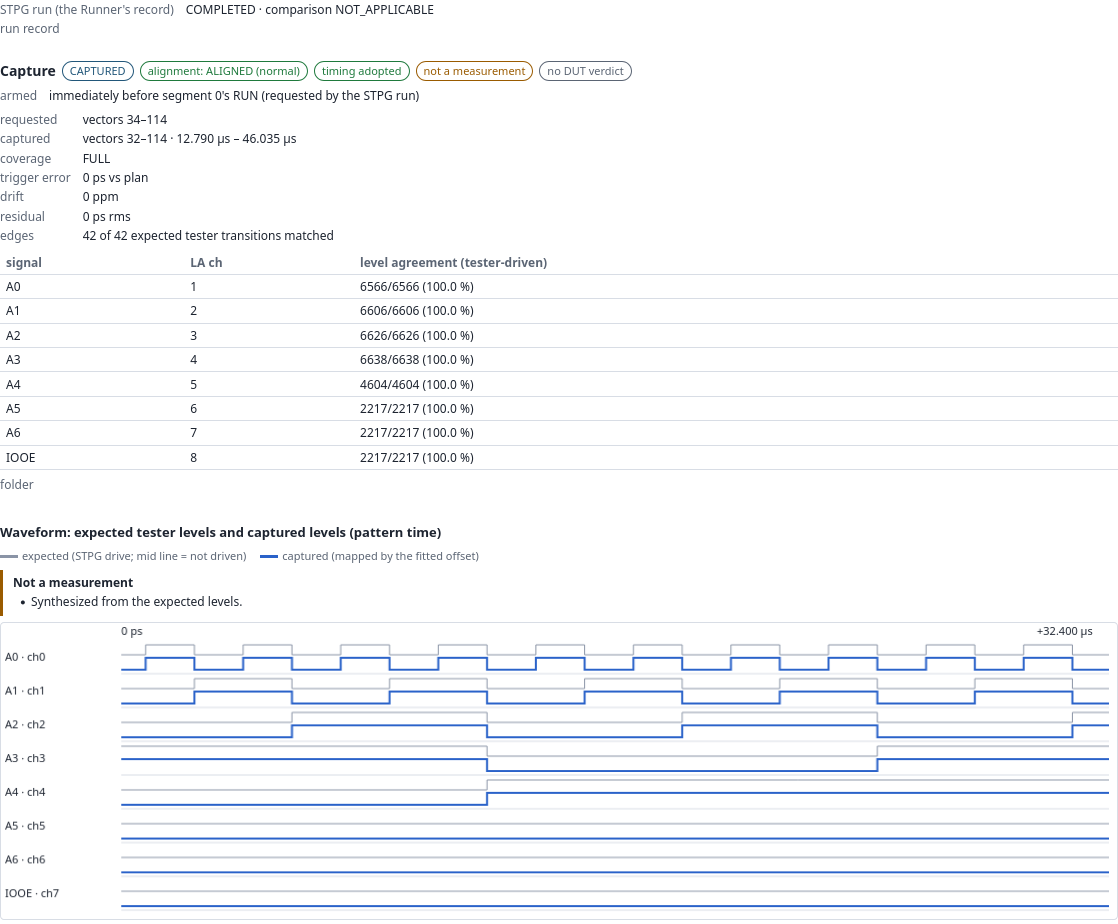
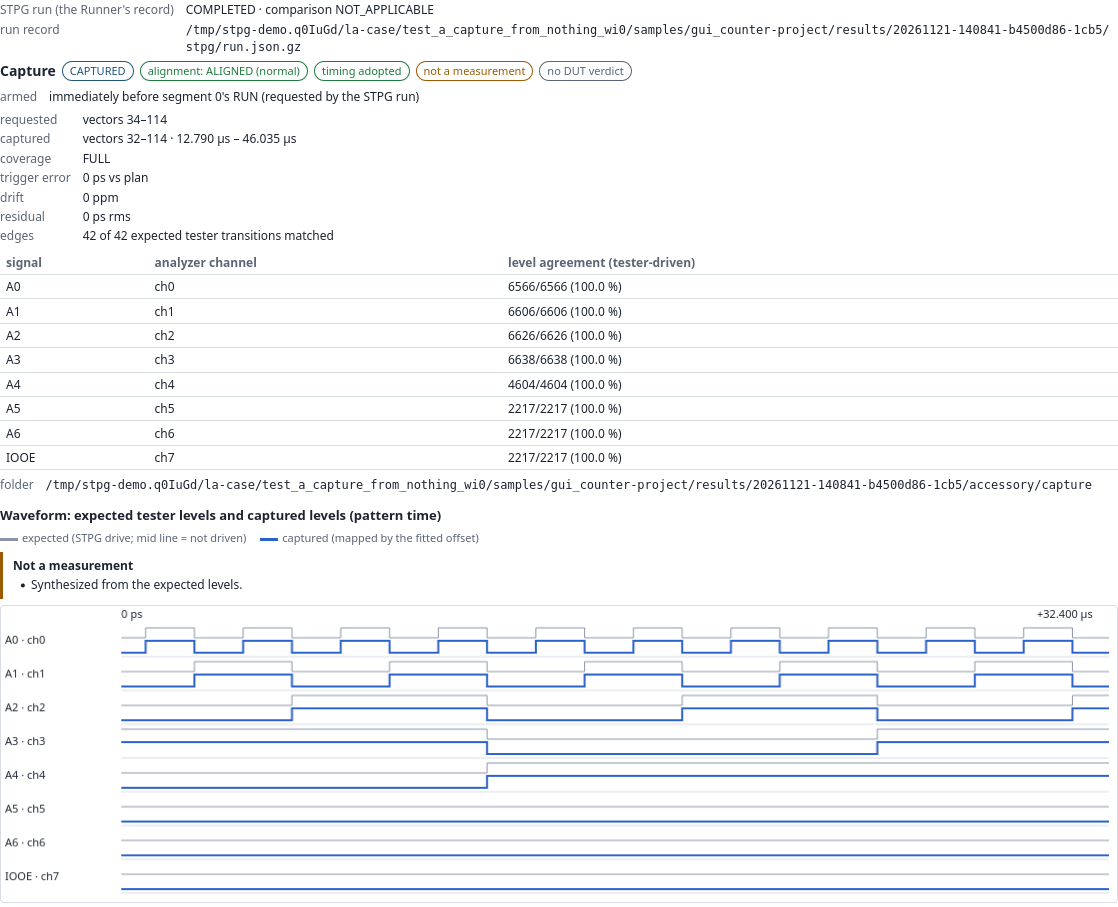
Label analyzer triggers from ch0 without changing saved plans

diff --git a/stpg_capture/ui/static/la.js b/stpg_capture/ui/static/la.js
@@ -353,6 +353,23 @@ $("planSave").addEventListener("click", (e) => {
   if (path) busyWhile(e.target, async () => { const r = await api("plan/save", { plan_id: S.plan.plan_id, path }); setStatus(`saved ${r.path}`); });
 });
 
+// The saved condition string is historical. Keep it intact; label the
+// structured, zero-based trigger like the wiring and waveform in this UI.
+function triggerConditionText(trigger, channels) {
+  const { type, base_channel: base, count, value } = trigger || {};
+  const limit = type === "pattern" ? 16 : type === "level" && count === 1 ? 25 : 0;
+  if (![base, count, value].every(Number.isInteger) || base < 0 || count < 1 ||
+      base + count > limit || value < 0 || value >= 2 ** count) return "the trigger condition";
+  const labels = new Map((Array.isArray(channels) ? channels : [])
+    .filter((row) => row && Number.isInteger(row.channel) && typeof row.signal === "string")
+    .map((row) => [row.channel, row.signal]));
+  return Array.from({ length: count }, (_, i) => {
+    const channel = base + i;
+    const signal = labels.get(channel);
+    return `ch${channel}${signal ? `(${signal})` : ""}=${(value >> i) & 1}`;
+  }).join(", ");
+}
+
 function renderPlan() {
   const body = $("planBody");
   const planned = !!(S.plan && S.plan.plan.status === "PLANNED");
@@ -366,7 +383,7 @@ function renderPlan() {
     el("div", { class: "badges" }, badge(p.status, planned ? "ok" : "bad"), t.type ? badge(`${t.type} trigger`, "info") : null,
       t.strategy ? badge(`strategy ${t.strategy}`, "muted") : null, badge(`segment ${p.bundle.segment}`, "muted")),
     p.reasons && p.reasons.length ? notice("bad", "Not plannable", p.reasons) : null,
-    planned ? kvList([["trigger", t.condition], ["target", `vector ${p.target.vector} (local ${p.target.local_vector} of segment ${p.bundle.segment})`],
+    planned ? kvList([["trigger", triggerConditionText(t, p.channels)], ["target", `vector ${p.target.vector} (local ${p.target.local_vector} of segment ${p.bundle.segment})`],
       ["window", `vectors ${p.window.first_vector}–${p.window.last_vector}`],
       ["sampling", `${(p.sample_rate_hz / 1e6).toFixed(3)} MHz · ${p.samples.pre} before + ${p.samples.post} after = ${p.samples.total} samples`]]) : null,
     planned ? table(["signal", "analyzer channel"], p.channels.map((c) => [c.signal, `ch${c.channel}`])) : null,
@@ -381,14 +398,16 @@ function renderPlan() {
 $("runWrite").addEventListener("click", (e) => busyWhile(e.target, async () => {
   const mode = $("runMode").value;
   if (!mode) throw new Error("choose the mode explicitly: device or simulated");
-  const r = await api("config", { plan_id: S.plan.plan_id, mode, device_binding: $("runDevice").value.trim() || null,
+  const selected = S.plan;
+  const r = await api("config", { plan_id: selected.plan_id, mode, device_binding: $("runDevice").value.trim() || null,
     directory: $("runFolder").value.trim() || null });
   setChildren($("runBody"), 
     el("div", { class: "badges" }, badge("written", "ok"), badge(r.mode, r.mode === "simulated" ? "warn" : "info"),
       r.checked_by_core_sdk ? badge("core identity check passed", "ok") : badge("core identity check not run", "muted")),
     kvList([["accessory config", copyable(r.config)], ["segment", r.segment],
       ["open limit", `${r.open_timeout_s ?? r.timeout_s} s`], ["arm/complete limit", `${r.timeout_s} s`],
-      ["stdin EOF grace", `${r.close_timeout_s ?? 1} s`], ["trigger", r.trigger]]),
+      ["stdin EOF grace", `${r.close_timeout_s ?? 1} s`],
+      ["trigger", triggerConditionText(selected.plan.trigger, selected.plan.channels)]]),
     notice("info", "Next, in the STPG Runner", [
       "External accessory → Accessory config: this external.json → Check → tick “use with the next run” → Run….",
       "The run's results folder then holds stpg/ (the STPG record), accessory/session.json (the Runner's record of this process) and accessory/capture/ (this tool's capture). Open the run folder in card 7."]),
@@ -485,9 +504,9 @@ function captureResultView(view) {
   const session = (r.analyzer && r.analyzer.session) || {};
   if (r.outcome === "NO_DATA" && session.armed && session.capture_bytes_received === 0) {
     // NO_DATA follows a sent target RUN; with not one byte back, the analyzer never fired (not a transfer stall)
-    const trig = view.plan_summary && view.plan_summary.trigger;
+    const { trigger: trig, channels } = view.plan_summary || {};
     box.append(notice("warn", "Trigger never seen", [
-      `The analyzer was armed before the target RUN and the RUN was sent, but it did not see ${trig ? trig.condition : "the trigger condition"} and sent no samples.`,
+      `The analyzer was armed before the target RUN and the RUN was sent, but it did not see ${triggerConditionText(trig, channels)} and sent no samples.`,
       ...(trig && trig.type === "pattern" ? ['This is a pattern trigger: the analyzer firmware signals it from its GPIO0 to its GPIO1, so it fires only when GPIO0 and GPIO1 of the analyzer Pico are connected. A plan made with Strategy "level trigger" does not use them, so it tells this cause apart from the wiring below.'] : []),
       "Also check the wires from the STPG GPIOs to the analyzer channels listed in the plan, the common ground, and that the STPG section shows the run completed."]));
   }

diff --git a/tests/test_la_page_render.py b/tests/test_la_page_render.py
@@ -10,8 +10,10 @@ import stpg_capture.ui as ui_package
 
 pytestmark = pytest.mark.stpg_host_only
 
-PATTERN ={"type": "pattern", "condition": "ch1(A0)=0, ch7(A6)=1"}
-LEVEL = {"type": "level", "condition": "ch7(A6)=1"}
+PATTERN = {"type": "pattern", "base_channel": 0, "count": 2, "value": 2,
+           "condition": "ch1(A0)=0, ch2(A1)=1"}
+LEVEL = {"type": "level", "base_channel": 6, "count": 1, "value": 1, "condition": "ch7(A6)=1"}
+CHANNELS = [{"channel": 0, "signal": "A0"}, {"channel": 1, "signal": "A1"}, {"channel": 6, "signal": "A6"}]
 WIRE = "gpio0 and gpio1 of the analyzer pico are connected"
 
 
@@ -22,6 +24,9 @@ def render(view):
     source = (Path(ui_package.__file__).parent / "static" / "la.js").read_text(encoding="utf-8")
     start = source.index("function captureResultView(")
     body = source[start:source.index("async function showCapture(", start)]
+    if "function triggerConditionText(" in source:
+        start = source.index("function triggerConditionText(")
+        body = source[start:source.index("function renderPlan(", start)] + body
     script = """
 const input = JSON.parse(require('fs').readFileSync(0, 'utf8'));
 class Dom {
@@ -46,13 +51,16 @@ def _view(outcome, received, trigger, *, armed=True):
     result = {"outcome": outcome, "alignment_status": "NOT_ATTEMPTED", "mode": "device",
               "timing": {"adopted": False, "reasons": []}, "errors": ["no complete capture within the bounded wait"],
               "analyzer": {"session": {"armed": armed, "capture_bytes_received": received}}}
-    return {"result": result, "directory": "capture", "plan_summary": {"trigger": trigger} if trigger else None}
+    return {"result": result, "directory": "capture",
+            "plan_summary": {"trigger": trigger, "channels": CHANNELS} if trigger else None}
 
 
-@pytest.mark.parametrize("trigger,wire", [(PATTERN, True), (LEVEL, False)])
-def test_no_byte_after_the_target_run_says_the_trigger_was_never_seen(trigger, wire):
+@pytest.mark.parametrize("trigger,wire,shown", [
+    (PATTERN, True, "ch0(A0)=0, ch1(A1)=1"), (LEVEL, False, "ch6(A6)=1")])
+def test_no_byte_after_the_target_run_says_the_trigger_was_never_seen(trigger, wire, shown):
     text = render(_view("NO_DATA", 0, trigger))
-    assert "trigger never seen" in text and f"did not see {trigger['condition'].lower()} and sent no samples" in text
+    assert "trigger never seen" in text and f"did not see {shown.lower()} and sent no samples" in text
+    assert trigger["condition"].lower() not in text
     assert "common ground" in text
     assert (WIRE in text) == wire
 
@@ -60,6 +68,11 @@ def test_no_byte_after_the_target_run_says_the_trigger_was_never_seen(trigger, w
 def test_without_a_plan_summary_the_condition_is_named_generically():
     text = render(_view("NO_DATA", 0, None))
     assert "did not see the trigger condition" in text and WIRE not in text
+
+
+def test_a_legacy_summary_without_structured_channel_fields_does_not_guess():
+    text = render(_view("NO_DATA", 0, {"type": "level", "condition": "ch1(A0)=1"}))
+    assert "did not see the trigger condition" in text and "ch1(a0)" not in text
 
 
 @pytest.mark.parametrize("outcome,received,armed", [

diff --git a/tests/test_two_programs_browser.py b/tests/test_two_programs_browser.py
@@ -52,12 +52,9 @@ def manual_shot(driver, name: str, selector: str) -> None:
         time.sleep(0.2)  # let the actual waveform canvas resize
         target = driver.find_element(By.CSS_SELECTOR, selector)
         driver.execute_script("arguments[0].scrollIntoView({block:'center'})", target)
-        hidden = driver.execute_script("return [...arguments[0].querySelectorAll('.path'),...document.querySelectorAll('header')].map(e=>{"
-                                       "const old=e.style.visibility; e.style.visibility='hidden'; return [e,old];})", target)
         try:
             target.screenshot(str(path / name))
         finally:
-            driver.execute_script("for(const [e,old] of arguments[0])e.style.visibility=old", hidden)
             driver.set_window_size(size["width"], size["height"])
 
 
@@ -141,6 +138,7 @@ def test_a_capture_from_nothing_with_both_programs(browser, tmp_path):  # noqa: 
         driver.find_element(By.ID, "planForm").find_element(By.NAME, "address").send_keys("50")
         driver.find_element(By.ID, "planRun").click()
         until(lambda: "PLANNED" in text("planBody"), "the plan")
+        assert "ch0(A0)=" in text("planBody") and "ch1(A0)=" not in text("planBody")
         manual_shot(driver, "plan-simulated.png", "#cardPlan")
         Select(driver.find_element(By.ID, "runMode")).select_by_value("simulated")
         config = tmp_path / "accessory" / "external.json"
@@ -148,6 +146,7 @@ def test_a_capture_from_nothing_with_both_programs(browser, tmp_path):  # noqa: 
         driver.find_element(By.ID, "runWrite").click()
         until(lambda: "external.json" in text("runBody"), "the config")
         assert config.is_file()
+        assert "ch0(A0)=" in text("runBody") and "ch1(A0)=" not in text("runBody")
 
         # step 7: Check, tick, Run in the Runner
         driver.switch_to.window(runner)
@@ -180,7 +179,9 @@ def test_a_capture_from_nothing_with_both_programs(browser, tmp_path):  # noqa: 
         until(lambda: "Overall" in text("rpRunBody"), "the result", 120)
         assert "COMPLETED" in text("rpRunBody") and "external accessory" in text("rpRunBody").lower()
         run = next(tmp_path.rglob("accessory/session.json")).parent.parent
-        assert read_json(run / "accessory" / "capture" / "capture.json")["mode"] == "simulated"
+        capture = read_json(run / "accessory" / "capture" / "capture.json")
+        assert capture["mode"] == "simulated"
+        assert "ch1(A0)=" in capture["plan"]["trigger"]["condition"]  # historical saved field
         assert read_json(run / "accessory" / "result.json")["mode"] == "simulated"
 
         # step 8: open the run's folder on the analyzer's page

diff --git a/stpg_capture/ui/service.py b/stpg_capture/ui/service.py
@@ -358,7 +358,8 @@ class LaService:
                     pass
                 break
         return {"capture_id": capture_id, "directory": str(folder), "result": short, "run": run,
-                "plan_summary": {"trigger": plan.get("trigger"), "window": plan.get("window"),
+                "plan_summary": {"trigger": plan.get("trigger"), "channels": plan.get("channels"),
+                                 "window": plan.get("window"),
                                  "sample_rate_hz": plan.get("sample_rate_hz"), "requested": plan.get("requested"),
                                  "segment": (plan.get("bundle") or {}).get("segment")},
                 "waveform": bool(result.get("samples") and result.get("alignment"))}

diff --git a/stpg_capture/la_protocol.py b/stpg_capture/la_protocol.py
@@ -275,7 +275,7 @@ def build_request(info: AnalyzerInfo, *, channels: list[int], frequency: int, pr
         value = 0
     elif trigger_type == TRIGGER_COMPLEX:
         if not (1 <= trigger_count <= 16 and 0 <= trigger_channel <= 15 and trigger_channel + trigger_count <= 16):
-            raise ProtocolError("pattern trigger must use 1..16 contiguous channels within channels 1..16")
+            raise ProtocolError("pattern trigger must use 1..16 contiguous channels within ch0..ch15")
         if not 0 <= trigger_value < (1 << trigger_count):
             raise ProtocolError("pattern trigger value has bits outside the trigger channels")
         count_field = trigger_count

diff --git a/tests/mutation_check.py b/tests/mutation_check.py
@@ -72,6 +72,10 @@ MUTANTS = [
     ("LA-13", "the strobe table displays the saved one-based channel", "ui/static/la.js",
      "analyzerChannelLabel(s.channel)", "s.channel",
      "tests/test_la_page_render.py::test_result_tables_label_saved_channels_from_zero[strobe_observations]"),
+    ("LA-14", "the trigger-missed notice uses the saved one-based condition", "ui/static/la.js",
+     "did not see ${triggerConditionText(trig, channels)} and sent",
+     'did not see ${trig ? trig.condition : "the trigger condition"} and sent',
+     "tests/test_la_page_render.py::test_no_byte_after_the_target_run_says_the_trigger_was_never_seen"),
 ]
 
 

diff --git a/stpg_capture/planner.py b/stpg_capture/planner.py
@@ -16,7 +16,7 @@ against the whole expected pin timeline from the start of the invocation:
   The post-capture alignment detects an early trigger instead of trusting it.
 
 Strategies: ``pattern`` (firmware complex trigger: 1..16 contiguous channels
-within channels 1..16), ``level`` (firmware "edge" trigger, which is a level
+within ch0..ch15), ``level`` (firmware "edge" trigger, which is a level
 condition on one channel) and ``marker`` (level trigger on a marker signal that
 exists only in a derived pattern). Nothing here talks to a device.
 """

diff --git a/README.md b/README.md
@@ -12,7 +12,7 @@ No firmware or device operation is authorized by these installation instructions
 
 Captures the real waveform around a chosen vector of an STPG run, with an RP2350 (Pico 2) logic analyzer running the
 gusmanb/logicanalyzer V6 firmware. It is a separate program from the STPG software, which starts it as its own process
-for one run. It never runs the STPG itself. Licence: GPL v3 (`LICENSE`, `NOTICE.md`).
+for one run. It never runs the STPG itself. [GPL-3.0-only](LICENSE) · [Third-party notices](NOTICE.md).
 
 ## Try the simulated analyzer
 
@@ -37,6 +37,10 @@ python3 -m venv stpg-env
 ```
 
 See the [source-install walkthrough](manual/setup.md) to open the core alongside the analyzer and try a mock capture.
+
+![Simulated analyzer result showing ch0 to ch7 and the not-a-measurement warning](manual/images/capture-simulated.png)
+
+This capture uses synthesized levels from the public counter example. It is not a measurement.
 
 `stpg-la` and `stpg-capture` are also installed as console commands; they need the environment's Scripts/bin folder
 on PATH. The module command above does not. Demo output is not a measurement.

diff --git a/manual/capture.md b/manual/capture.md
@@ -55,8 +55,9 @@ Otherwise the reasons are shown, and any drawing is diagnostic only.
 Levels at compare strobes are analyzer observations, not STPG compare results. Nothing here is a verdict on the device,
 an electrical validation or a calibration.
 
-The result tables, plan, wiring and waveform use the same labels, from ch0.
-Saved alignment records keep their one-based channel numbers for compatibility.
+The result tables, trigger summaries, wiring and waveform use the same labels, from ch0.
+Saved alignment records keep their one-based channel numbers, and existing plan files keep their
+historical condition text for compatibility. The page uses the plan's structured fields to show the trigger.
 
 ## Limits
 

diff --git a/manual/setup.md b/manual/setup.md
@@ -136,7 +136,8 @@ In card 2 open the bundle you built in the Runner: its **folder** is shown in th
 ![Planning a window on the public counter sample](images/plan-simulated.png)
 
 Actual demo plan for vector 50 of the public `gui_counter.stil` sample. No analyzer was armed. With that sample,
-enter `50` in Address and leave the other plan fields at their defaults to reproduce this view.
+enter `50` in Address and leave the other plan fields at their defaults to reproduce this view. The trigger and
+channel table both start at ch0.
 
 ## 6. Use it in a run
 
